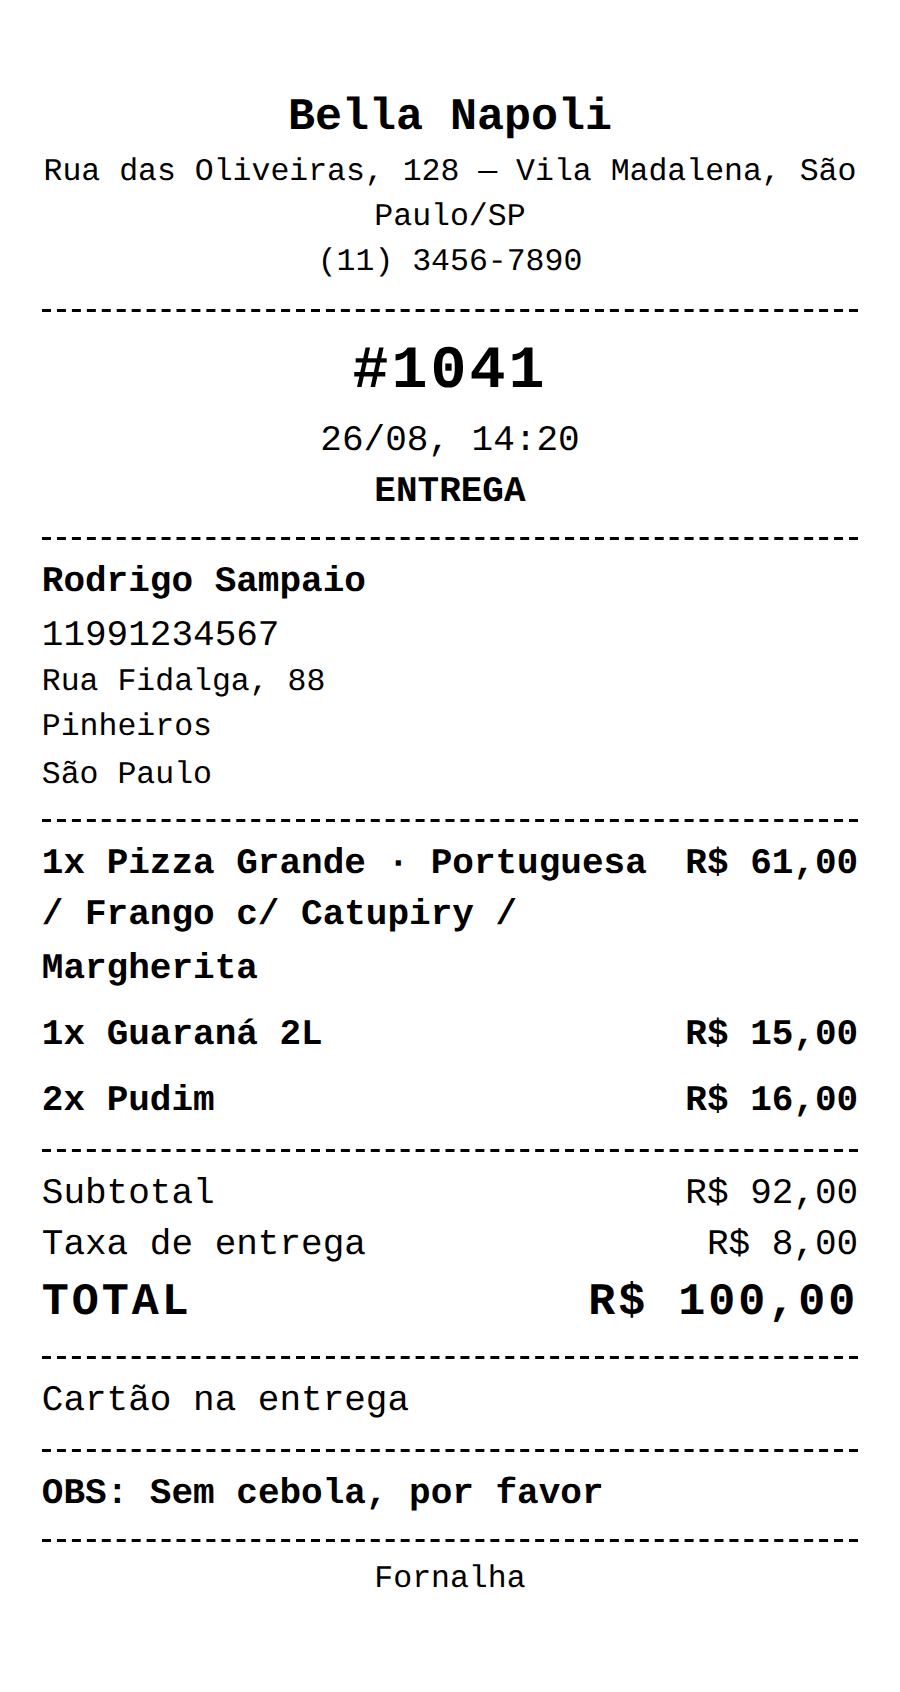
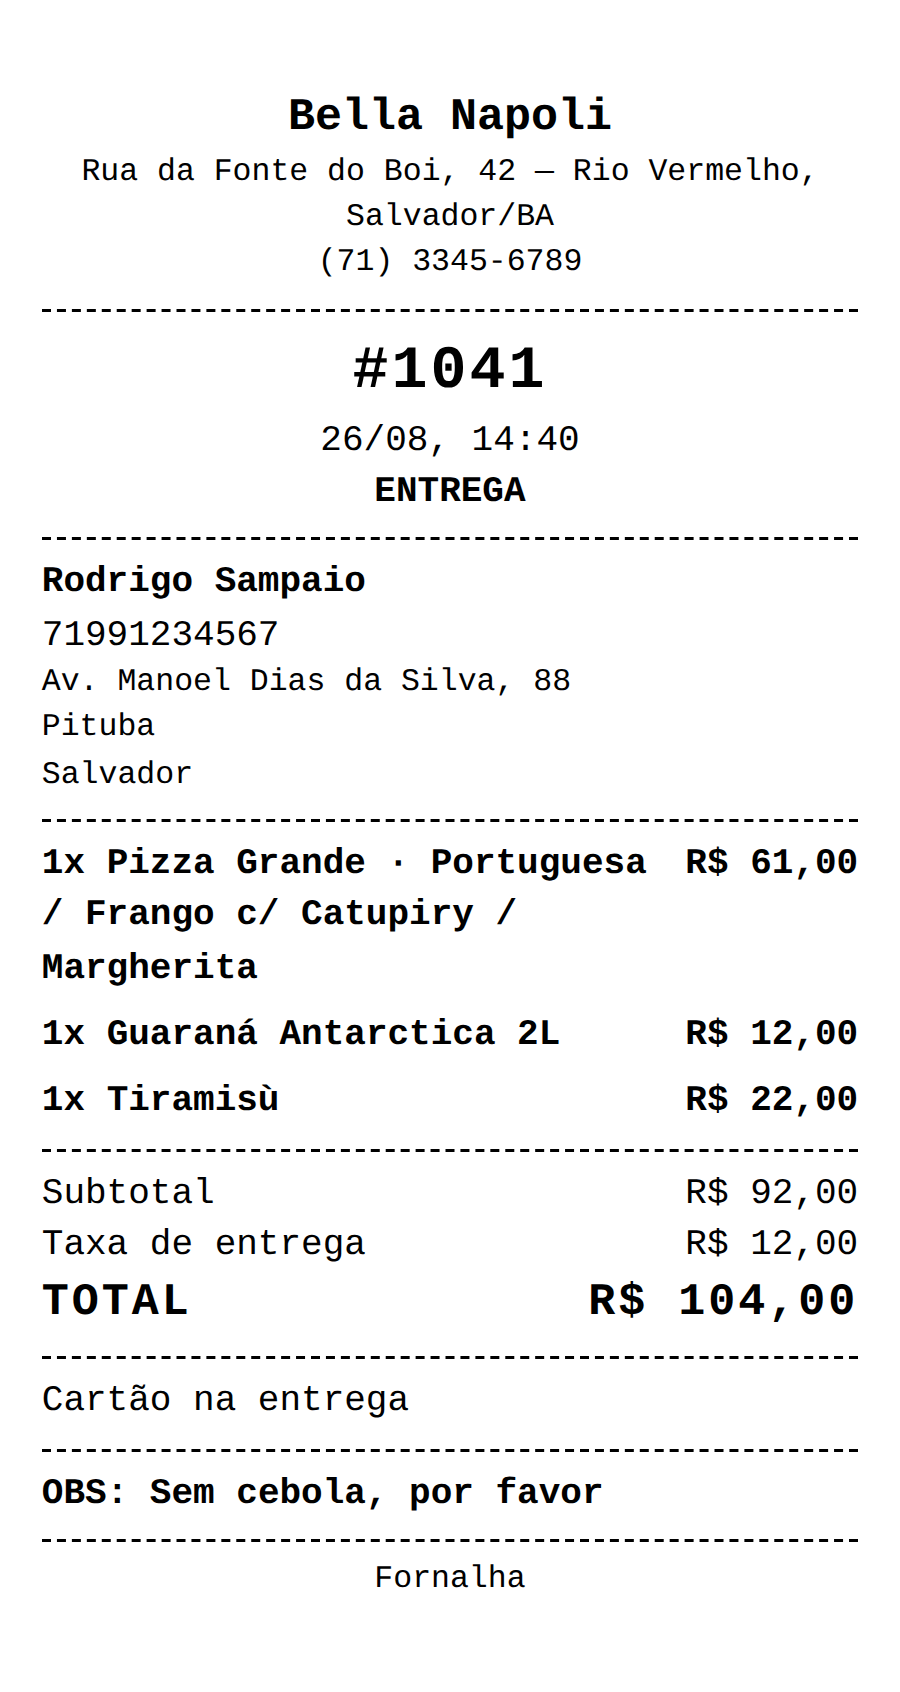
feat: pizzaria de demonstração passa a ficar em Salvador
A demo é apresentada em Salvador, e endereço de São Paulo tira a régua de
comparação de quem assiste. A Bella Napoli muda para a Rua da Fonte do
Boi, no Rio Vermelho, com CEP de verdade (41940-360), DDD 71 e fuso
America/Bahia.

A área de entrega sai do Rio Vermelho para fora, com a taxa subindo
conforme se afasta: Rio Vermelho 6, Ondina 8, Federação e Amaralina 9,
Graça 11, Pituba 12, Itaigara 14. Os nomes são exatamente os que a
BrasilAPI devolve — o casamento é por lower(district), e "Federacao" sem
cedilha não bateria.

O seed serve banco novo; a migration 0012 serve o banco que já roda, com
UPDATE no lugar de apagar e recriar, para não levar junto os pedidos.
Conferido contra um banco reconstituído no estado de produção: endereço e
zonas trocados, pedido antigo preservado, e rodar de novo não duplica.

Os prints do hero foram refeitos com dados de Salvador — as taxas que
aparecem no painel e na comanda são as mesmas da tabela de zonas. A
tabela de bairros do bento passa a mostrar Rio Vermelho e Pituba, que é o
que o visitante encontra ao clicar em "Ver cardápio".

Conferido de ponta a ponta no checkout: CEP da Pituba devolve R$ 12,00,
do Rio Vermelho R$ 6,00, e um CEP de São Paulo cai em "Ainda não
entregamos em Bela Vista".

Claude-Session: https://claude.ai/code/session_01PYPTsRo6c6sPCX7ineWKRv

diff --git a/src/app/page.tsx b/src/app/page.tsx
@@ -311,9 +311,11 @@ export default function Home() {
             do bairro dele. Longe não sai pelo preço de perto.
           </Texto>
           <div className="mt-auto space-y-1.5 pt-4 text-xs">
+            {/* Os mesmos bairros e taxas da pizzaria de demonstração: quem
+                clica em "Ver cardápio" logo depois encontra exatamente isto. */}
             {[
-              ["Vila Madalena", "R$ 6"],
-              ["Pinheiros", "R$ 9"],
+              ["Rio Vermelho", "R$ 6"],
+              ["Pituba", "R$ 12"],
             ].map(([bairro, taxa]) => (
               <div
                 key={bairro}
